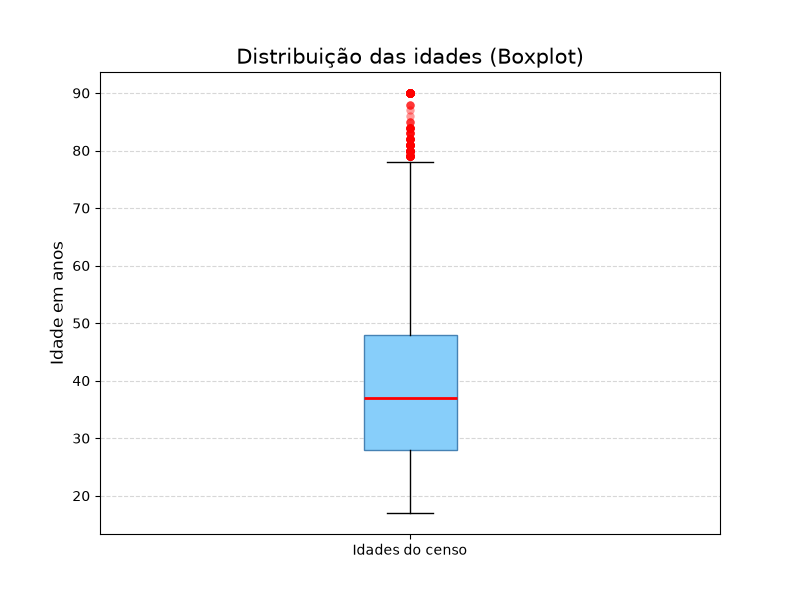
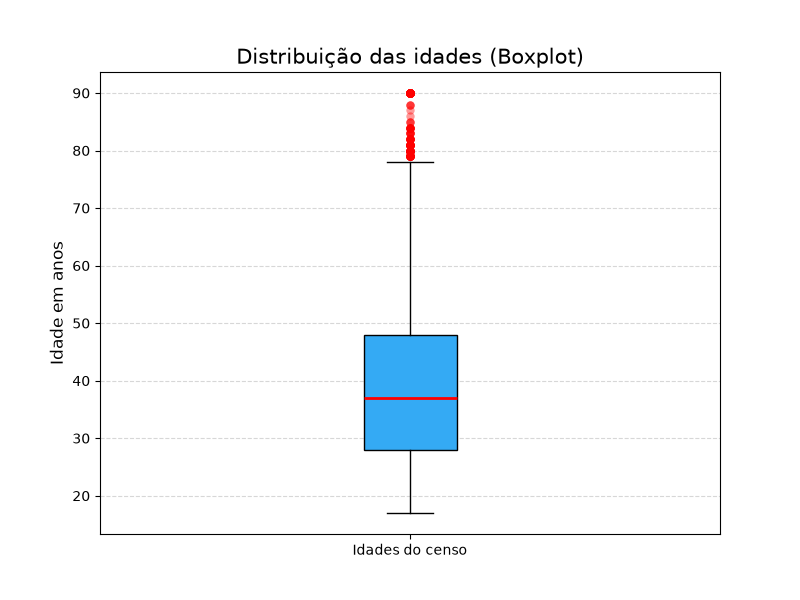
finalização dos exercícios

Changed region(s): [[0.4375, 0.54, 0.5938, 0.78]]

diff --git a/Distribuicao.py b/Distribuicao.py
@@ -29,9 +29,29 @@ estilo_outliers = dict(markerfacecolor='red', marker='o', alpha=0.4, markeredgec
 plt.boxplot(idades, # Onde vai tirar os dados
             patch_artist=True, #Avisa que vai pintar
             tick_labels=['Idades do censo'], #Muda e põe um parâmetro
-            boxprops=dict(facecolor='#87CEFA', color='#4682B4'), #Pinta a caixa de azul, borda escura
+            boxprops=dict(facecolor="#34AAF4", color="#000000"), #Pinta a caixa de azul, borda escura
             medianprops=dict(color='red', linewidth=2), #Linha da mediana vermelha, tamanho da linha 2
-            flierprops=estilo_outliers) # muda os Outliers conforme o formato que fizemos linha 2
+            flierprops=estilo_outliers) # muda os Outliers conforme o formato que fizemos linha 26
+
+# Quartis / outliers
+q1 = idades.quantile(0.25)
+q3 = idades.quantile(0.75)
+
+# Limites dos quartis
+calcLim = q3 - q1
+limInf = q1 - (calcLim * 1.5)
+limSup = q3 + (calcLim * 1.5)
+
+# Contagem dos Outliers
+outEmbaixo = (idades < limInf).sum()
+outEmCima = (idades > limSup).sum()
+outTotal = outEmbaixo + outEmCima
+
+# Mostragem dos outliers
+if outTotal > 0:
+    outResul = f'Sim, apresenta {outTotal} outliers.'
+else:
+    outResul = f'Não apresenta nenhum outlier.'
 
 # Nomeação dos parâmetros
 plt.title("Distribuição das idades (Boxplot)", fontsize = 15) #Título, tamanho da fonte
@@ -49,9 +69,9 @@ obliquidade = skew(idades)
 obliResul = 'Não tem informação'
 
 # Comparadores da Obliquidade
-if obliquidade <= 0.3:
+if obliquidade >= 0.3:
     obliResul = 'Assimetria Positiva'
-elif obliquidade >= -0.3:
+elif obliquidade <= -0.3:
     obliResul = 'Assimetria Negativa'
 else:
     obliResul = 'Simétrica'
@@ -71,6 +91,7 @@ else:
 # Formatação para mostragem na tela
 obliText = f"Obliquidade é = {obliquidade: .4f} | {obliResul}"
 curText = f"Curtose é = {curtose: .4f} | {curResul}"
+outText = f"Outliers do box plot = {outTotal}"
 largPixel = 80 # Largura do texto
 
 # Mostragem da Obliquidade
@@ -86,4 +107,10 @@ print(f"""
 {'*' * largPixel}
 {('\033[1m'+ curText + '\033[0m').center(largPixel + 8)}
 {'*' * largPixel}
+""")
+
+print(f"""
+{'=' * largPixel}
+{('\033[1m'+ outText + '\033[0m').center(largPixel + 8)}
+{'=' * largPixel}
 """)

diff --git a/AnaliseExploratoria.py b/AnaliseExploratoria.py
@@ -31,9 +31,9 @@ print ("A Moda é: ", moda)
 print ("O primeiro Quartil", firstQuartil)
 print ("O segundo Quartil", secondQuartil)
 print ("O terceriro Quartil", thirdQuartil)
-print ("O primeiro Quartil", percentilFive)
-print ("O primeiro Quartil", PercentilTen)
-print ("O primeiro Quartil", PercentilNinety)
+print ("O percentil de 5", percentilFive)
+print ("O percentil de 10", PercentilTen)
+print ("O percentil de 90", PercentilNinety)
 print(f"A Variância é: {variancia:.2f}")
 print(f"O Desvio Padrão é: {desvioPadrao:.2f}")
 
